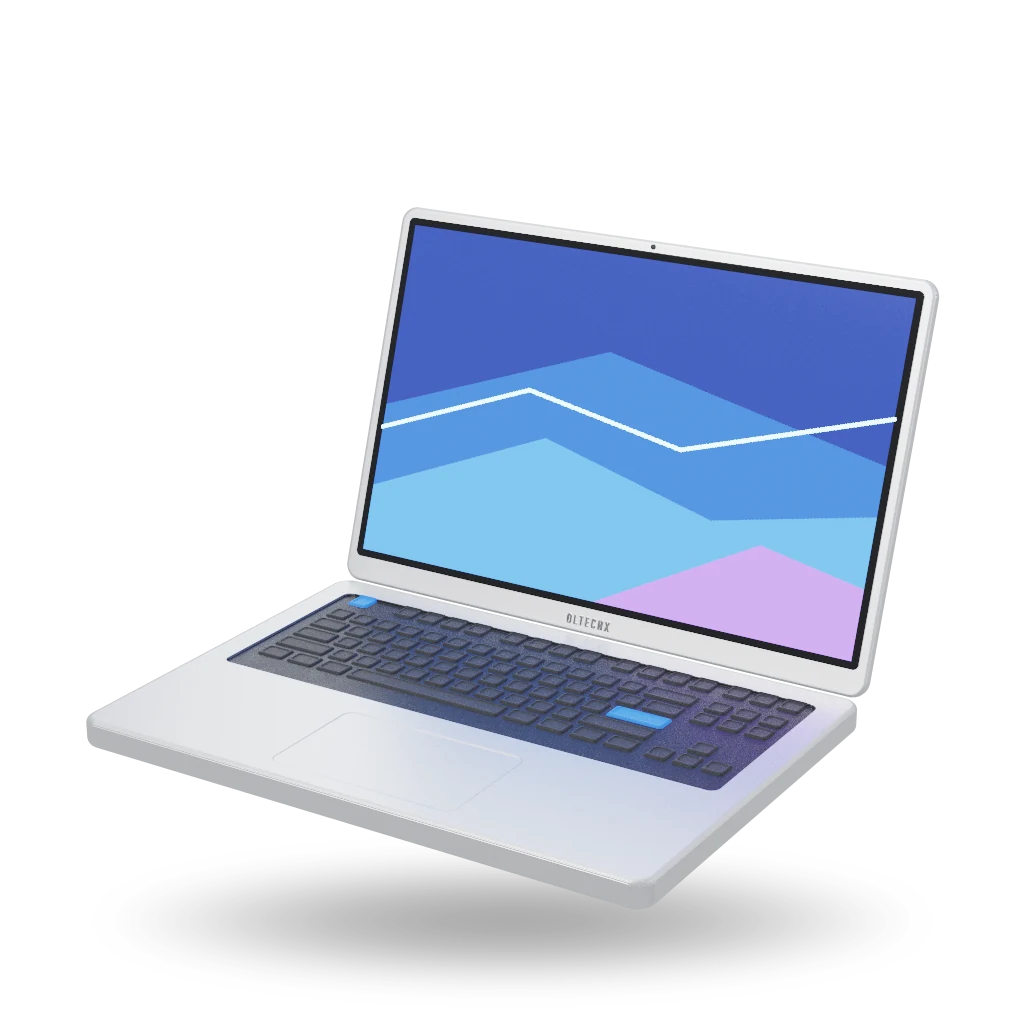
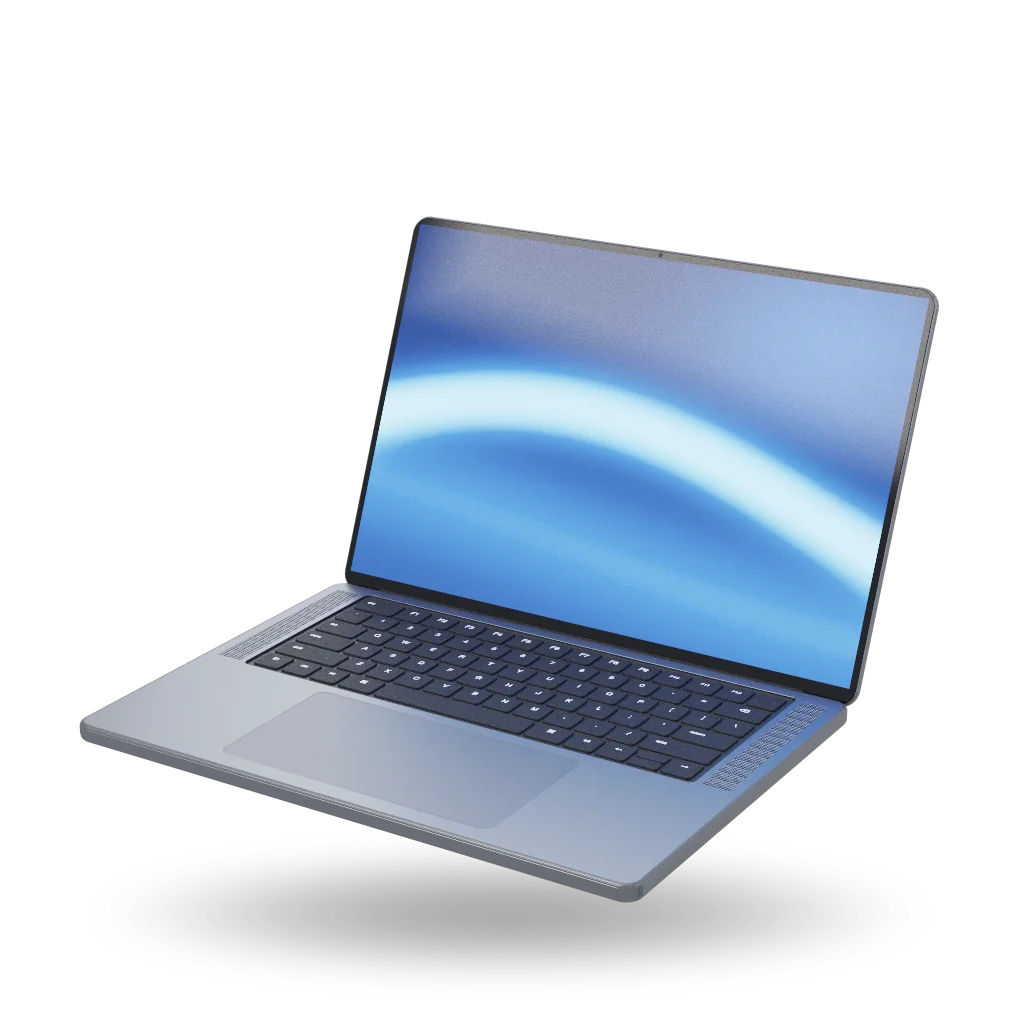
Realistic laptop and a separate silver Mac render

Changed region(s): [[0.0625, 0.1875, 0.9375, 0.9062]]

diff --git a/src/renderer/components/render.tsx b/src/renderer/components/render.tsx
@@ -37,7 +37,8 @@ export function deviceSlug(hardware: Hardware): string {
   if (hardware.device.kind === "tablet") return "tableti";
   if (/imac/i.test(name)) return "aio-kompyutri";
   if (/mac mini|mac studio/i.test(name)) return "mini-kompyutri";
-  if (hardware.laptop || /macbook/i.test(name)) return "laptopi";
+  if (/macbook/i.test(name)) return "macbook";
+  if (hardware.laptop) return "laptopi";
   if (/mac/i.test(name)) return "mini-kompyutri";
   return "nastolni-kompyutri";
 }
